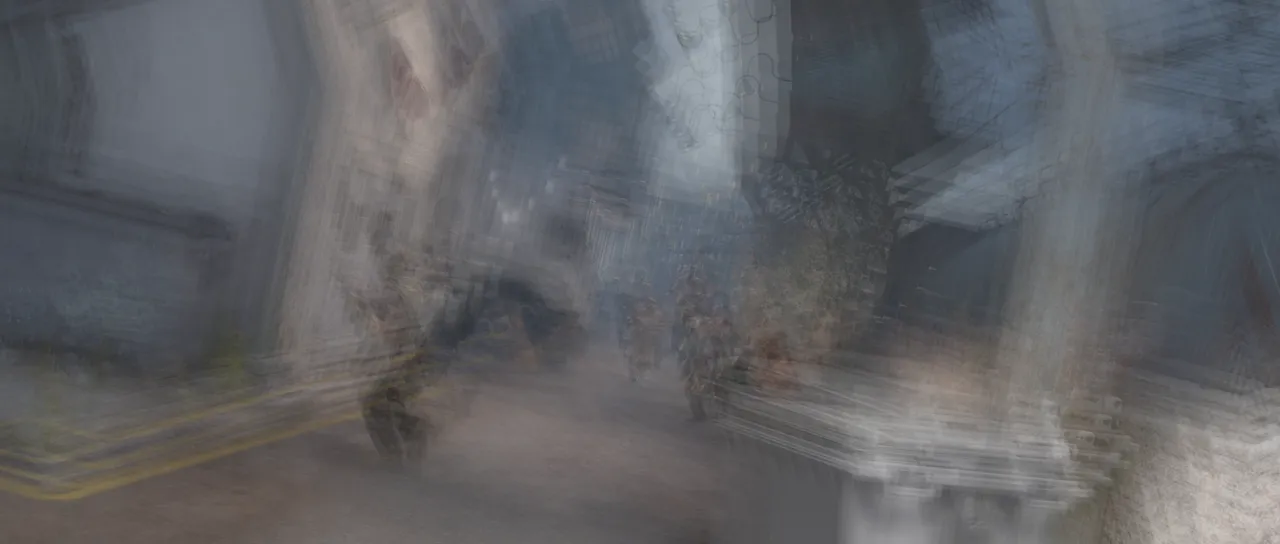
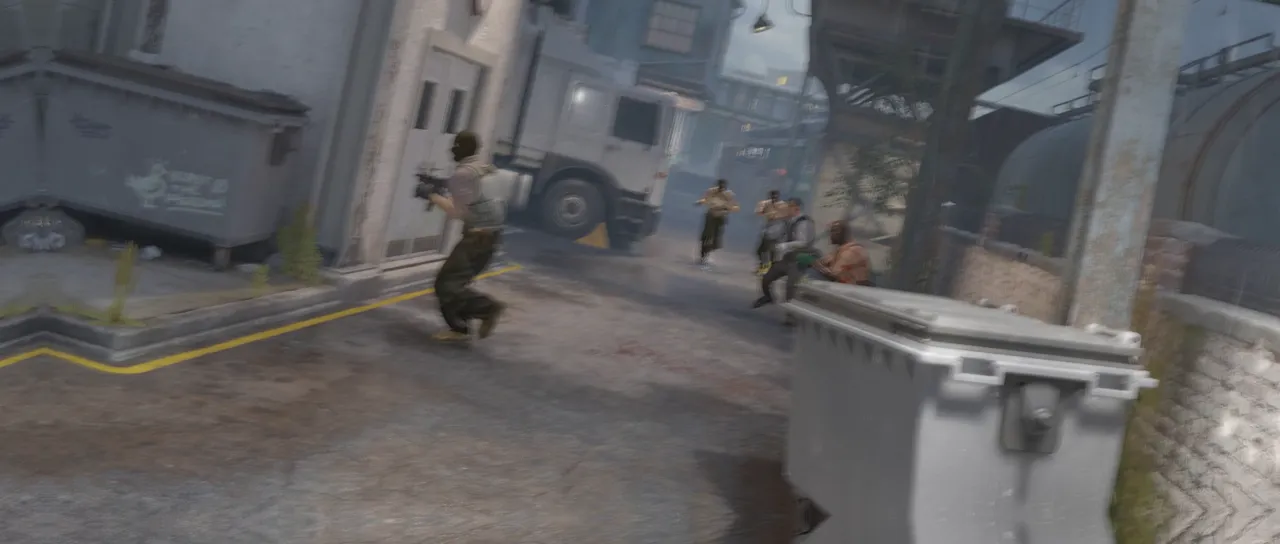
The manual's pictures: depth of field turned round, a navy tint, corner vignette, a gentler shake, radial wipe at a third
Five example pictures missed what their pages claim. Tint rendered as a
greyscale, so its black end now maps to navy; Radial wipe sat at its half-way
default and read as the Linear wipe mirrored, so it moves to a third; the
vignette closed to a porthole and is now a corner shade; the shake was smeared
hard enough to read as a blur and now shows a visible offset with a light
smear.

Depth of field held the near ground plane sharp and softened only a mid band.
Invert does not fix that: with Focus point on, the focus is sampled through the
same invert as every pixel, the two cancel, and the render comes back
byte-identical. The cause is the depth pass being crushed into its top end, so
the falloff steepens instead - a narrow Range with Gamma - which separates the
running figure from what is in front of and behind it.

diff --git a/crates/lumit-render/tests/effect_examples.rs b/crates/lumit-render/tests/effect_examples.rs
@@ -112,6 +112,10 @@ fn showcase(match_name: &str) -> Vec<(&'static str, EffectValue)> {
             ("blues_hue", f(45.0)),
             ("reds_saturation", f(70.0)),
         ],
+        // Tint at its defaults maps black to black and white to white, which is
+        // a greyscale conversion and looks like a mistake in a manual. Pulling
+        // the black end to navy makes it read as what it is: a two-colour map.
+        "tint" => vec![("black", colour([0.02, 0.05, 0.18, 1.0]))],
 
         // --- effects the plate is too polite to show at anything gentle ---
         // Sharpening, grain and a vignette are all real at a couple of per cent
@@ -123,10 +127,16 @@ fn showcase(match_name: &str) -> Vec<(&'static str, EffectValue)> {
             ("radius", f(1.6)),
             ("threshold", f(0.0)),
         ],
+        // A vignette darkens the corners, and only the corners. Roundness has
+        // to come off its default for that: at 1 the falloff is a true circle,
+        // and on a 2.35:1 frame a circle that clears the corners has already
+        // swallowed both side edges, whatever the radius is set to. At 0 it
+        // follows the frame's own shape and the four corners are what is left.
         "vignette" => vec![
-            ("amount", f(1.0)),
-            ("radius", f(0.45)),
-            ("softness", f(0.6)),
+            ("amount", f(0.55)),
+            ("radius", f(0.9)),
+            ("softness", f(0.45)),
+            ("roundness", f(0.0)),
         ],
         "add_grain" => vec![
             ("intensity", f(190.0)),
@@ -152,12 +162,14 @@ fn showcase(match_name: &str) -> Vec<(&'static str, EffectValue)> {
         ],
         "texturize" => vec![("relief", f(12.0)), ("texture_contrast", f(180.0))],
         // A frozen frame of a shake is an offset frame, which teaches nothing
-        // about shaking. The blur is what makes it read as movement.
+        // about shaking, so a little blur goes with it. Only a little: smeared
+        // hard enough and the picture reads as a blur rather than a shake, and
+        // the reader has to be able to see the frame is knocked off its mark.
         "shake" => vec![
-            ("amplitude", f(10.0)),
-            ("rotation", f(6.0)),
+            ("amplitude", f(4.0)),
+            ("rotation", f(1.5)),
             ("motion_blur", on(true)),
-            ("mb_amount", f(1.0)),
+            ("mb_amount", f(0.3)),
         ],
 
         // --- geometry ---
@@ -176,25 +188,33 @@ fn showcase(match_name: &str) -> Vec<(&'static str, EffectValue)> {
         // --- the ones that read a second picture, wired in wire_aux ---
         "light_wrap" => vec![("width", f(70.0)), ("intensity", f(2.2))],
         "set_matte" => vec![("channel", choice(0))],
-        // The plate's depth pass is compressed into its top end, which is
-        // exactly the case Gamma exists for. Focus sits on the running figure
-        // and the aperture is wide enough that the far end goes properly soft.
         // Focus is picked by pointing at the running figure rather than by
         // guessing a number, which is the honest way round and the way the
-        // control is meant to be used. The plate's depth pass is compressed into
-        // its top end, so a little Gamma spreads it before it is read.
+        // control is meant to be used.
+        //
+        // Invert is deliberately left off. Focus is read through the same
+        // invert as every other pixel, so with Focus point on the two cancel
+        // and the picture does not move at all. The picture was reading the
+        // wrong way round because the depth pass is crushed into its top end:
+        // at a wide Range the whole near ground plane sat inside focus and only
+        // a mid band softened. A narrow Range with Gamma steepening the falloff
+        // is what separates the figure from what is in front of and behind it.
         "dof" => vec![
             ("use_focus_point", on(true)),
             ("focus_point_x", f(580.0)),
             ("focus_point_y", f(330.0)),
-            ("gamma", f(1.5)),
-            ("range", f(0.2)),
+            ("gamma", f(6.0)),
+            ("range", f(0.02)),
             ("aperture", f(12.0)),
             ("near_aperture", f(12.0)),
             ("far_aperture", f(12.0)),
         ],
 
         // --- the iris is the transition here, so it has to be opened ---
+        // Radial wipe at its half-way default cuts the frame down the middle,
+        // which is the Linear wipe picture mirrored. A third of the way round
+        // leaves a wedge, so the two pages do not show the same figure twice.
+        "radial_wipe" => vec![("completion", f(35.0))],
         "iris_wipe" => vec![
             ("centre_y", f(f64::from(H) / 2.0)),
             ("outer_radius", f(26.0)),
